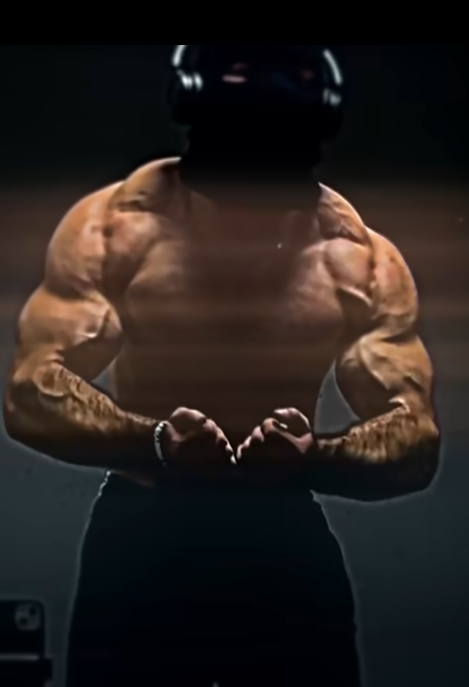
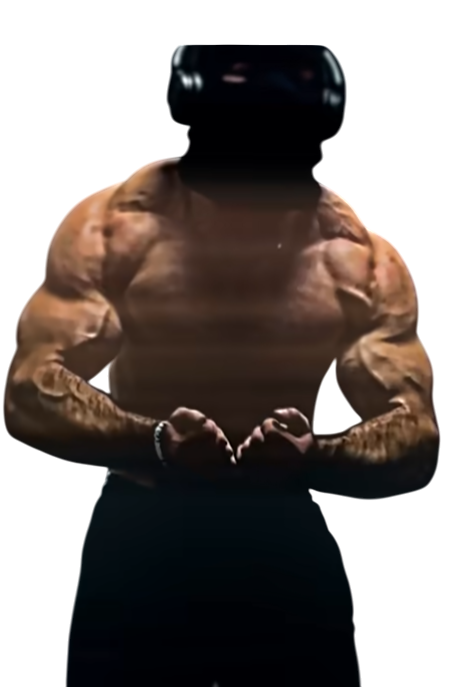
clients img has been updated, 3 result for upgrades has been added

diff --git a/src/js/UpgradesParams.js b/src/js/UpgradesParams.js
@@ -19,12 +19,12 @@ const UpgradesParams = [
   },
   {
     id: 2,
-    title: "реклама в соц сетях",
+    title: "реклама",
     img: "src/assets/Upgrades/upgrade2.jpeg",
     resultImg: "src/assets/Upgrades/upgradeResult2.png",
-    resultImgPositionX: 1100,
+    resultImgPositionX: 1040,
     resultImgPositionY: 250,
-    resultImgWidth: 200,
+    resultImgWidth: 150,
     resultImgHeight: 300,
     desc: "Теперь о тебе будут знать не только бабушки из твоего подъезда",
     initialPrice: 900,
@@ -42,10 +42,10 @@ const UpgradesParams = [
     title: "выступить на России",
     img: "src/assets/Upgrades/upgrade3.png",
     resultImg: "src/assets/Upgrades/upgradeResult3.png",
-    resultImgPositionX: 700,
-    resultImgPositionY: 500,
-    resultImgWidth: 200,
-    resultImgHeight: 200,
+    resultImgPositionX: 770,
+    resultImgPositionY: 580,
+    resultImgWidth: 160,
+    resultImgHeight: 160,
     desc: "Помимо двух банок просроченного протеина ты получаешь большее уважение к своей персоне",
     initialPrice: 7000,
     initialIncrease: 47,
@@ -62,8 +62,8 @@ const UpgradesParams = [
     title: "коллаборация",
     img: "src/assets/Upgrades/upgrade4.png",
     resultImg: "src/assets/Upgrades/upgradeResult4.png",
-    resultImgPositionX: 600,
-    resultImgPositionY: 350,
+    resultImgPositionX: 680,
+    resultImgPositionY: 370,
     resultImgWidth: 180,
     resultImgHeight: 300,
     desc: "Известные спортивные блогеры наконец-то заметили обычного паренька из деревни с 'заурядной' генетикой",
@@ -81,11 +81,11 @@ const UpgradesParams = [
     id: 5,
     title: "подвальная качалка",
     img: "src/assets/Upgrades/upgrade5.png",
-    resultImg: "src/assets/Upgrades/upgradeResult5.jpg",
-    resultImgPositionX: 1230,
-    resultImgPositionY: 550,
-    resultImgWidth: 200,
-    resultImgHeight: 350,
+    resultImg: "src/assets/Upgrades/upgradeResult5.png",
+    resultImgPositionX: 1180,
+    resultImgPositionY: 570,
+    resultImgWidth: 170,
+    resultImgHeight: 300,
     desc: "Отсюда свой путь начинали многие известные бодибилдеры",
     initialPrice: 820000,
     initialIncrease: 5460,
@@ -101,11 +101,11 @@ const UpgradesParams = [
     id: 6,
     title: "Мистер Олимпия",
     img: "src/assets/Upgrades/upgrade6.png",
-    resultImg: "src/assets/Upgrades/upgradeResult1.png",
-    resultImgPositionX: 1200,
-    resultImgPositionY: 200,
-    resultImgWidth: 100,
-    resultImgHeight: 150,
+    resultImg: "src/assets/Upgrades/upgradeResult6.png",
+    resultImgPositionX: 1015,
+    resultImgPositionY: 580,
+    resultImgWidth: 160,
+    resultImgHeight: 160,
     desc: "Вы - легенда",
     initialPrice: 9000000,
     initialIncrease: 60000,
@@ -121,11 +121,11 @@ const UpgradesParams = [
     id: 7,
     title: "клуб франшизы",
     img: "src/assets/Upgrades/upgrade7.png",
-    resultImg: "src/assets/Upgrades/upgradeResult1.png",
-    resultImgPositionX: 1200,
-    resultImgPositionY: 200,
-    resultImgWidth: 100,
-    resultImgHeight: 150,
+    resultImg: "src/assets/Upgrades/upgradeResult7.png",
+    resultImgPositionX: 1150,
+    resultImgPositionY: 350,
+    resultImgWidth: 300,
+    resultImgHeight: 200,
     desc: "Спортивный клуб вашей собственной франшизы (звучит гордо, но пока что это обычный фитнес - зал)",
     initialPrice: 97500000,
     initialIncrease: 650000,
@@ -141,11 +141,11 @@ const UpgradesParams = [
     id: 8,
     title: "личный бренд",
     img: "src/assets/Upgrades/upgrade8.png",
-    resultImg: "src/assets/Upgrades/upgradeResult1.png",
-    resultImgPositionX: 1200,
-    resultImgPositionY: 200,
-    resultImgWidth: 100,
-    resultImgHeight: 150,
+    resultImg: "src/assets/Upgrades/upgradeResult8.png",
+    resultImgPositionX: 720,
+    resultImgPositionY: 210,
+    resultImgWidth: 300,
+    resultImgHeight: 200,
     desc: "Теперь вы законодатель моды в комьюнити бодибилдинга",
     initialPrice: 877500000,
     initialIncrease: 5850000,

diff --git a/src/main/App.jsx b/src/main/App.jsx
@@ -7,7 +7,7 @@ import UpgradesParams from '../js/UpgradesParams.js';
 import '../css/App.css';
 
 function App() {
-  const [countMoney, setCountMoney] = useState(10000000000000);
+  const [countMoney, setCountMoney] = useState(10000000000);
   const [trainerImage, setTrainerImage] = useState("src/assets/Trainer/img1.png");
   const [pasIncreaseMoney, setPasIncreaseMoney] = useState(0);
   const [actIncreaseMoney, setActIncreaseMoney] = useState(1);
@@ -77,6 +77,8 @@ function App() {
             top: `${image.y}px`,
             width: `${image.width}px`,
             height: `${image.height}px`,
+            userSelect: `none`,
+            pointerEvents: `none`,
           }}
           alt="Result"
         />

diff --git a/src/js/ClientsBefore.js b/src/js/ClientsBefore.js
@@ -1,9 +1,9 @@
 const ClientsBefore = [
-  "src/assets/Client/clientBefore1.jpg", 
-  "src/assets/Client/clientBefore2.jpg", 
-  "src/assets/Client/clientBefore3.jpg", 
+  "src/assets/Client/clientBefore1.png", 
+  "src/assets/Client/clientBefore2.png", 
+  "src/assets/Client/clientBefore3.png", 
   "src/assets/Client/clientBefore4.png", 
-  "src/assets/Client/clientBefore5.jpg", 
+  "src/assets/Client/clientBefore5.png", 
 ]
 
 export default ClientsBefore

diff --git a/src/js/ClientsAfter.js b/src/js/ClientsAfter.js
@@ -1,7 +1,7 @@
 const ClientsAfter = [
-  "src/assets/Client/clientAfter1.jpg", 
-  "src/assets/Client/clientAfter2.jpg", 
-  "src/assets/Client/clientAfter3.jpg", 
+  "src/assets/Client/clientAfter1.png", 
+  "src/assets/Client/clientAfter2.png", 
+  "src/assets/Client/clientAfter3.png", 
   "src/assets/Client/clientAfter4.png", 
   "src/assets/Client/clientAfter5.png", 
 ]

diff --git a/src/css/Upgrade.css b/src/css/Upgrade.css
@@ -71,6 +71,8 @@
   background-size: contain;
   background-position: center;
   background-repeat: no-repeat;
+  user-select: none;
+  pointer-events: none;
 }
 
 .Upgrade__price-block{
